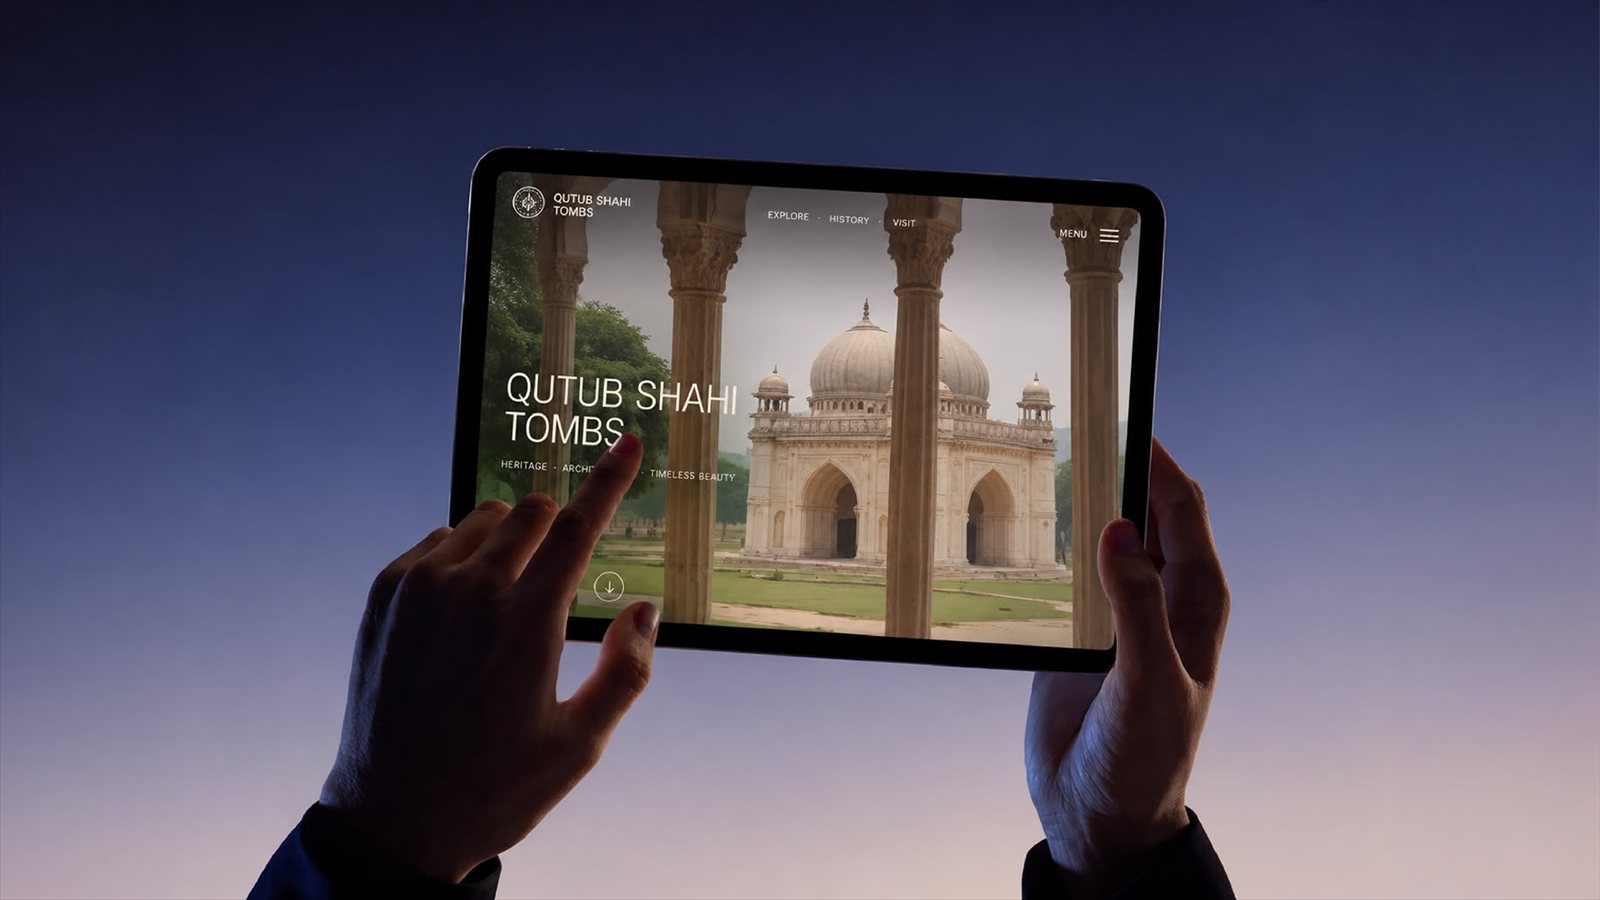
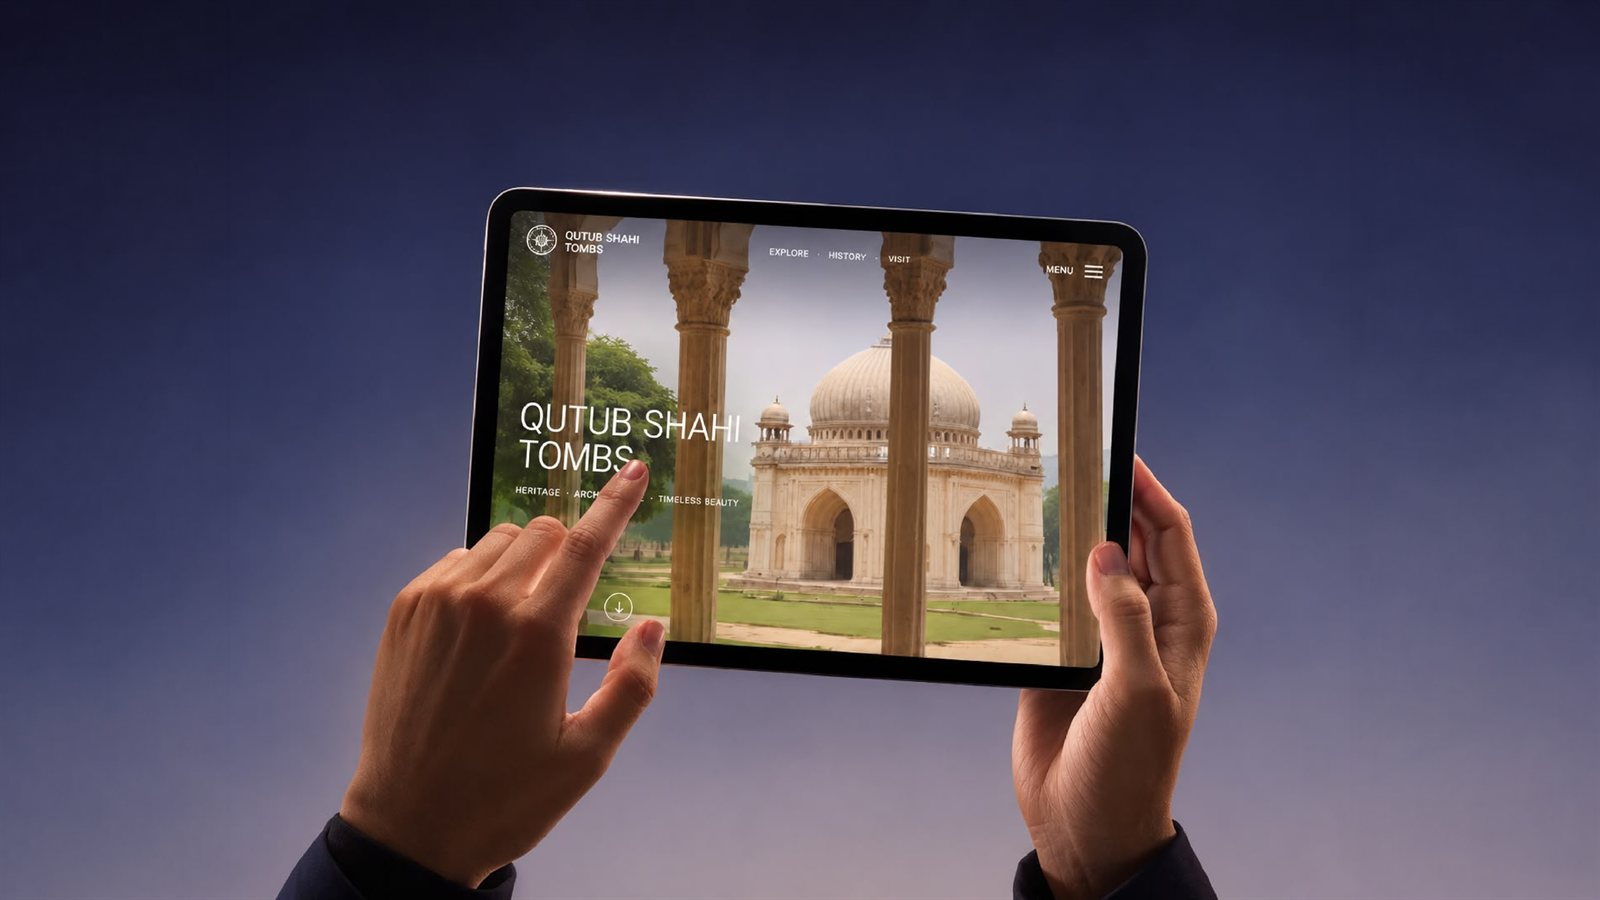
Replace Qutub Shahi Tombs cover

diff --git a/index.html b/index.html
@@ -716,7 +716,7 @@
       <h3>UI/UX Design <span class="count">3 projects</span></h3>
       <div class="cards">
         <a class="card" href="ECO%20app%20design%20apple.pdf" data-pdf="ECO%20app%20design%20apple.pdf"><div class="thumb"><img src="thumbnails/ECO%20-%20App%20Design.png" alt="ECO emergency care app screens on phones" loading="lazy" style="object-position: center bottom"></div><div class="title">ECO - App Design</div><div class="sub">UI/UX Design</div></a>
-        <a class="card" href="Qutub%20Shahi%20Website.pdf" data-pdf="Qutub%20Shahi%20Website.pdf"><div class="thumb"><img src="thumbnails/Qutub%20Shahi%20Tombs%20-%20Website.jpg" alt="Qutub Shahi Tombs website shown on a tablet" loading="lazy"></div><div class="title">Qutub Shahi Tombs - Website</div><div class="sub">UI/UX Design</div></a>
+        <a class="card" href="Qutub%20Shahi%20Website.pdf" data-pdf="Qutub%20Shahi%20Website.pdf"><div class="thumb"><img src="thumbnails/Qutub%20Shahi%20Tombs%20-%20Website.jpg?v=2" alt="Hands holding a tablet showing the Qutub Shahi Tombs website" loading="lazy"></div><div class="title">Qutub Shahi Tombs - Website</div><div class="sub">UI/UX Design</div></a>
         <a class="card empty named" href="#"><div class="thumb"><span>Coming soon</span></div><div class="title">Inclusive Design - Website</div><div class="sub">UI/UX Design</div></a>
       </div>
     </div>
